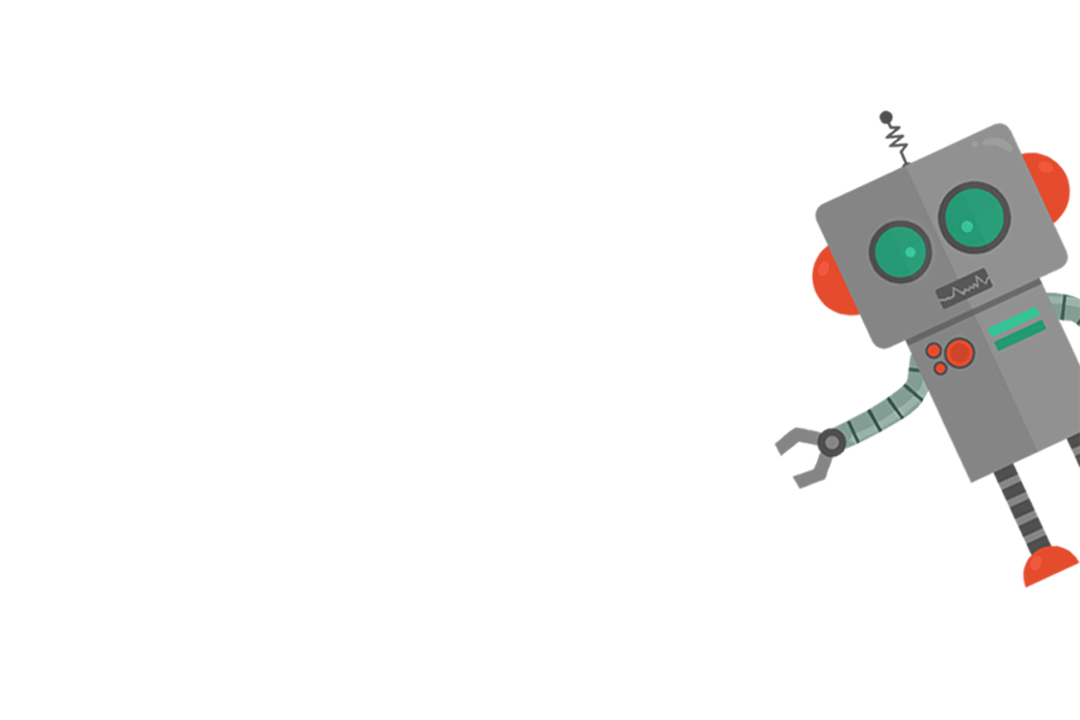
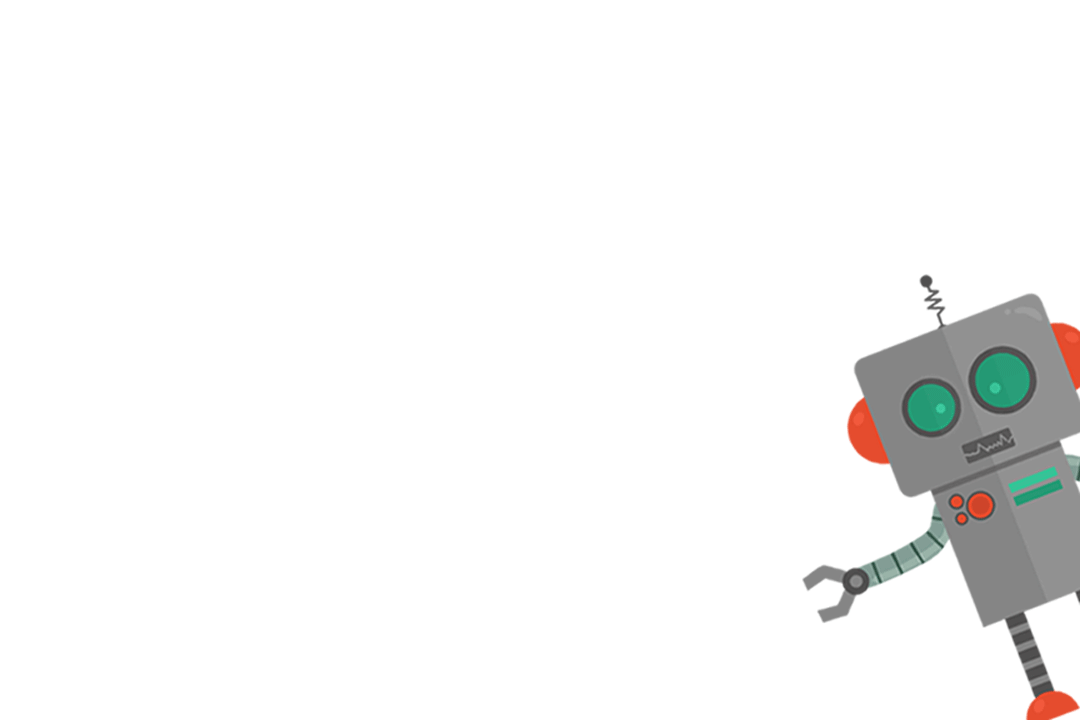
grey background added to intro

Changed region(s): [[0.7028, 0.1528, 1.0, 1.0]]

diff --git a/parse_sur/public/welcome.html b/parse_sur/public/welcome.html
@@ -63,15 +63,20 @@
         <!-- /.container-fluid -->
     </nav>
 
-
-    <!-- Section -->
-    <section id="section-form" class="form-section">
+    <aside class="intro-text">
         <div class="container">
             <div class="row">
                 <div class="col-md-8">
-                    <h4>Tell us who you are, what you need, and how to contact you. Our robots will follow up with you to make sure all your compliance and filing needs are met with minimum fuss.</h4>
+                    <h3>Tell us who you are, what you need, and how to contact you. Our robots will follow up with you to make sure all your compliance and filing needs are met with minimum fuss.</h3>
                 </div>
             </div>
+        </div>
+    </aside>    
+
+    <!-- Section -->
+    <section id="section-form" class="form-section">
+        
+        <div class="container">
             <div class="row center-block">
                     <form name="insightly_web_to_lead" action="https://googleapps.insight.ly/WebToLead/Create" method="post" class="fs-form fs-form-full">
                     <input type="hidden" name="formId" value="ayoXdgRJElVfaWGwaPILXA=="/>
@@ -88,7 +93,7 @@
                         </div>
                         <div class="field-wrap">
                             <label for="insightly_firstName">First Name</label><br>
-                            <input id="insightly_FirstName" type="text" name="FirstName">
+                            <input id="insightly_FirstName" type="text" name="FirstName" required>
                         </div>
                         <div class="field-wrap">
                             <label for="insightly_middleName">Middle Name (Optional)</label><br>
@@ -96,7 +101,7 @@
                         </div>
                         <div class="field-wrap">
                             <label for="insightly_lastName">Last Name</label><br>
-                            <input id="insightly_LastName" type="text" name="LastName">
+                            <input id="insightly_LastName" type="text" name="LastName" required>
                         </div>
 
                         <div class="wrap">
@@ -104,13 +109,13 @@
                                 <h4 class="bold">I need:</h4>
                                 <h5 class="bold">(Select all that apply, or <a href="#" data-toggle="modal" data-target="#myModal">learn more</a>)</h5>
                             </div>
-                            <input id="2a" type="checkbox" class="checkbox-inline" name="business-reg">Business Registration <br>
-                            <input id="2b" type="checkbox" class="checkbox-inline" name="company-reg">Company Registration <br>
-                            <input id="2c" type="checkbox" class="checkbox-inline" name="tcc">TCC (Tax Compliance Certificate) <br>
-                            <input id="2d" type="checkbox" class="checkbox-inline" name="nccr">NCC (National Contracts Commission Registration) <br>
-                            <input id="2e" type="checkbox" class="checkbox-inline" name="trademarking">Trademarking <br>
+                            <input id="2a" type="checkbox" class="checkbox-inline" name="business-reg" value="Business-registration">Business Registration <br>
+                            <input id="2b" type="checkbox" class="checkbox-inline" name="company-reg" value="Company-registration">Company Registration <br>
+                            <input id="2c" type="checkbox" class="checkbox-inline" name="tcc" value="TCC">TCC (Tax Compliance Certificate) <br>
+                            <input id="2d" type="checkbox" class="checkbox-inline" name="nccr" value="NCC">NCC (National Contracts Commission Registration) <br>
+                            <input id="2e" type="checkbox" class="checkbox-inline" name="trademarking" value="Trademarking">Trademarking <br>
                             <div class="wrap">
-                                <input id="2f" type="checkbox" class="checkbox-inline" name="business-reg">I want help with something else: <br>
+                                <input id="2f" type="checkbox" class="checkbox-inline" name="other" value="other">I want help with something else: <br>
                                 <textarea id="other" name="other" type="text" placeholder="Message"></textarea>
                             </div>
                         </div>
@@ -118,11 +123,11 @@
                         <div class="field-wrap">
                             <h4 class="intro bold">You can reach me at:</h4>
                             <label for="phone">Phone Number</label><br>
-                            <input id="insightly_Phone" type="text" name="phonenum">
+                            <input id="insightly_Phone" type="text" name="phone" required>
                         </div>
                         <div class="field-wrap">
                             <label for="email">Email Address</label><br>
-                            <input id="insightly_Email" type="email" name="email">
+                            <input id="insightly_Email" type="email" name="email" required>
                         </div>
 
                         <input type="hidden" id="insightly_ResponsibleUser" name="ResponsibleUser" value="962072"/><br/>
@@ -285,7 +290,6 @@
                     // ... increase counter and concatenate checkbox value to the url string
                     counter++;
                     url = url + ' I need assistance with my: ' + input_obj[i].value;
-                    // document.getElementById("insightly_Description").value = url;
                 }
             }
 

diff --git a/parse_sur/public/css/custom.css b/parse_sur/public/css/custom.css
@@ -51,6 +51,12 @@ body {
 	margin: 20px 0;
 }
 
+.intro-text {
+	background-color: #eeeeee;
+	padding-top: 145px;
+	padding-bottom: 50px;
+}
+
 .bold {
 	font-weight: bold;
 }
@@ -243,7 +249,7 @@ h3,h4 {
 	/*margin-top: 10px;*/
 	padding-bottom: 5px;
 	width: 50%;
-	background: rgba(199, 199, 199, 0.06);
+	background: rgba(199, 199, 199, 0.2);
 }
 
 .form-control {
@@ -296,7 +302,7 @@ h3,h4 {
 
 .form-section {
 	min-height: 100%;
-    padding-top: 140px;
+    padding-top: 30px;
     padding-bottom: 50px;
     background: url(../img/robot-tilt.png);
     background-repeat: no-repeat;
